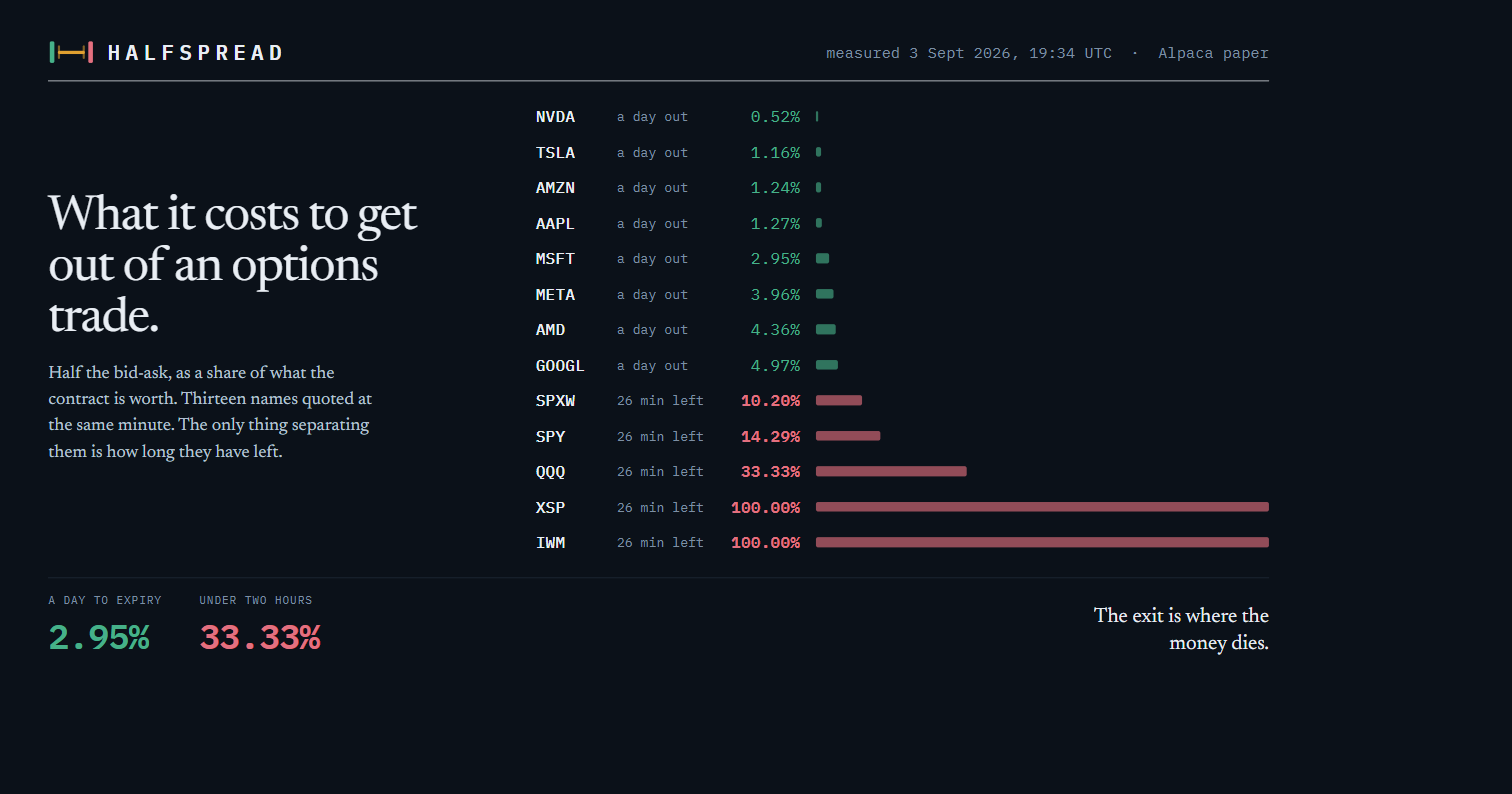
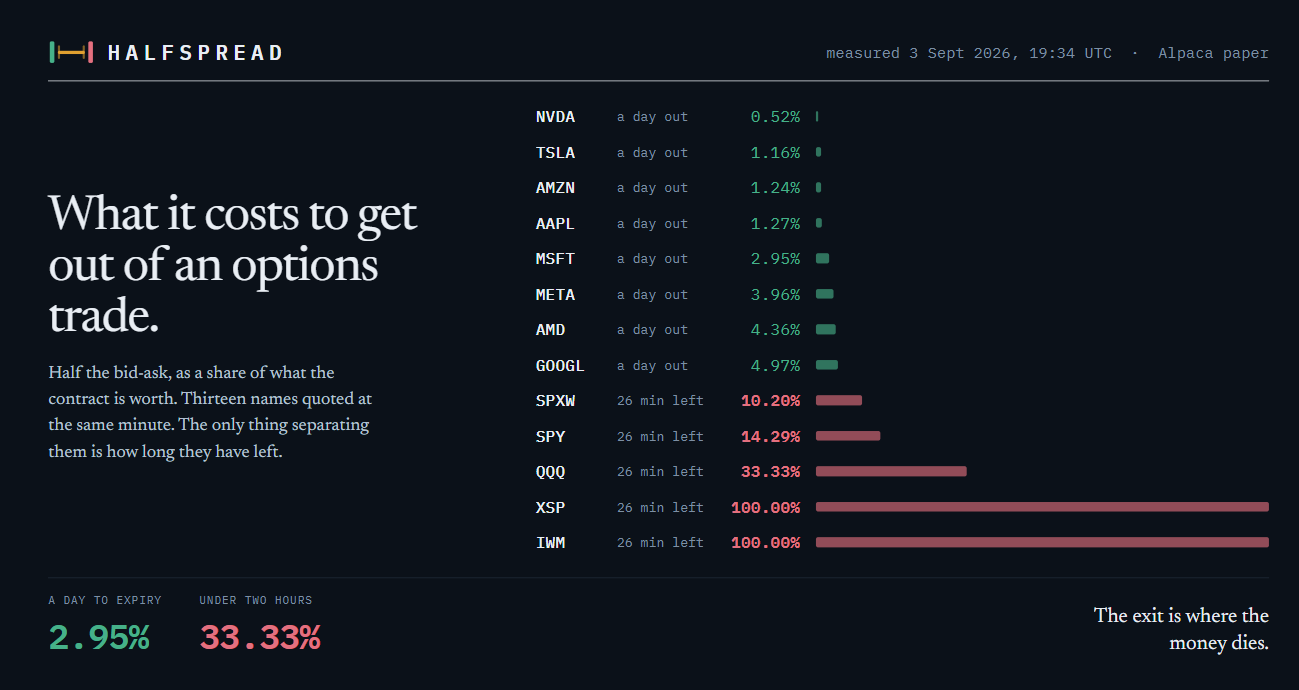
Tag the hackathon on every post
All five now mention @Alpaca and @lablab.ai in the body and carry
#AlpacaHackathon, so the organisers see each one and the set can be found
together. Added the X handles and a note to pick the organisation from
LinkedIn's dropdown rather than typing the text, otherwise nobody is notified.

The hackathon page URL goes in the first comment on the three image posts
rather than the body, because LinkedIn suppresses reach on anything carrying an
external link and those three are the ones most likely to travel.

diff --git a/submission/linkedin-posts.md b/submission/linkedin-posts.md
@@ -6,7 +6,14 @@ Every number below is real and is reproducible from the journal in the repositor
 has moved by the time you post, run `python -m agent.publish` and read the current one off the
 README, or check the live page. Do not post a number you have not checked.
 
-Tag **@lablab.ai** and **@Alpaca** on each. Post them a few hours apart rather than all at once.
+**Every post tags the hackathon.** Type `@Alpaca` and `@lablab.ai` and pick the organisation from
+LinkedIn's dropdown rather than typing the text by hand, otherwise it posts as plain text and
+neither page gets notified. `#AlpacaHackathon` is on all five so the whole set can be found
+together.
+
+Post them a few hours apart rather than all at once.
+
+On X the equivalents are **@AlpacaHQ** and **@lablabai**.
 
 ---
 
@@ -32,7 +39,9 @@ Tag **@lablab.ai** and **@Alpaca** on each. Post them a few hours apart rather t
 > structures by what is left after that cost, and then refuse to pay it a second time by letting
 > positions settle instead of closing them.
 >
-> #Options #QuantitativeFinance #AlgorithmicTrading #BuildInPublic
+> Built on @Alpaca paper trading for the AI Trading Agents hackathon run by @lablab.ai.
+>
+> #AlpacaHackathon #Options #QuantitativeFinance #AlgorithmicTrading #BuildInPublic
 
 ---
 
@@ -60,7 +69,9 @@ Tag **@lablab.ai** and **@Alpaca** on each. Post them a few hours apart rather t
 > If you are building anything that reports its own performance, I would genuinely recommend
 > that second one. It is not hard to write and it changes how you feel about your own numbers.
 >
-> #BuildInPublic #SoftwareEngineering #FinTech #DataIntegrity
+> Part of what I am building on @Alpaca for the @lablab.ai AI Trading Agents hackathon.
+>
+> #AlpacaHackathon #BuildInPublic #SoftwareEngineering #FinTech #DataIntegrity
 
 ---
 
@@ -91,7 +102,9 @@ Tag **@lablab.ai** and **@Alpaca** on each. Post them a few hours apart rather t
 > I am not sure "give the LLM less to do" is the popular position right now. I am fairly sure it
 > is the right one when there is money involved.
 >
-> #AI #LLM #RiskManagement #FinTech #AlgorithmicTrading
+> Running live on @Alpaca paper for the @lablab.ai AI Trading Agents hackathon.
+>
+> #AlpacaHackathon #AI #LLM #RiskManagement #AlgorithmicTrading
 
 ---
 
@@ -118,9 +131,9 @@ Tag **@lablab.ai** and **@Alpaca** on each. Post them a few hours apart rather t
 >
 > Most combinations get rejected. That is the point of it.
 >
-> Built for the Alpaca AI Trading Agents hackathon with @lablab.ai and @Alpaca.
+> Built for the AI Trading Agents hackathon run by @lablab.ai and @Alpaca, and still trading.
 >
-> #AlgorithmicTrading #Options #Hackathon #FinTech #BuildInPublic
+> #AlpacaHackathon #AlgorithmicTrading #Options #FinTech #BuildInPublic
 
 ---
 
@@ -149,7 +162,9 @@ Tag **@lablab.ai** and **@Alpaca** on each. Post them a few hours apart rather t
 > have made from the committed journal, with no keys and no network. If any of them stops
 > reproducing it exits non-zero.
 >
-> #OpenSource #Python #QuantitativeFinance #SoftwareEngineering #BuildInPublic
+> Built on @Alpaca for the @lablab.ai AI Trading Agents hackathon.
+>
+> #AlpacaHackathon #OpenSource #Python #QuantitativeFinance #BuildInPublic
 
 ---
 
@@ -164,6 +179,16 @@ Tag **@lablab.ai** and **@Alpaca** on each. Post them a few hours apart rather t
 Posters are generated from `assets/poster-cost.html` and `assets/poster-leash.html`. To refresh
 them with newer numbers, edit the figures in those files, serve the folder
 (`python -m http.server 8777`) and screenshot at 1200x630.
+
+## Where to put the hackathon page
+
+Posts 1, 2 and 3 carry no URL on purpose: LinkedIn suppresses reach on anything with an external
+link, and those three are the ones most likely to travel. Put the hackathon page in the **first
+comment** on each instead, which costs nothing and still gets people there:
+
+> Built for this: https://lablab.ai/event/alpaca-ai-trading-agents-hackathon
+
+Posts 4 and 5 carry their link in the body because the link *is* the point of those two.
 
 ## A note on order
 
